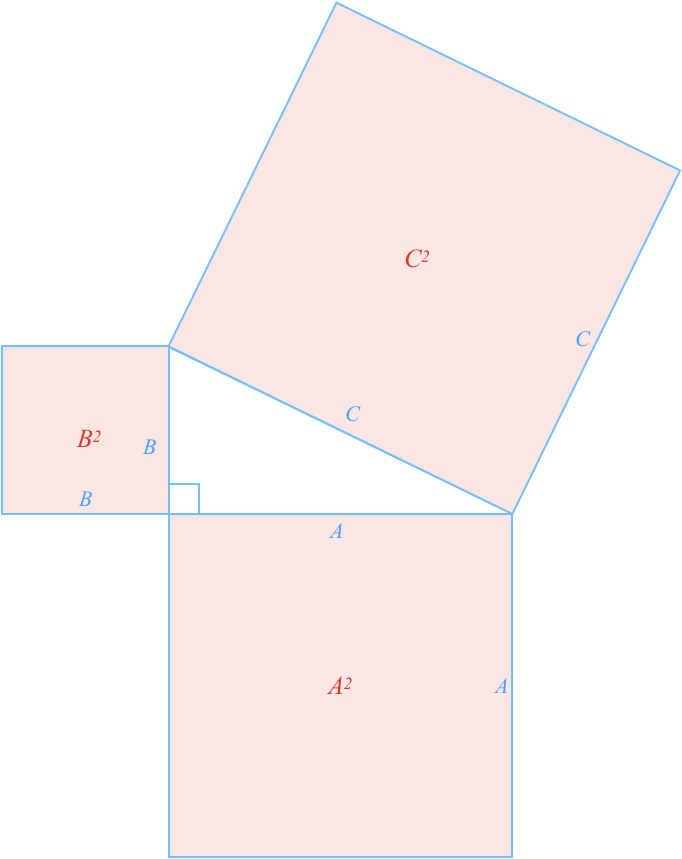
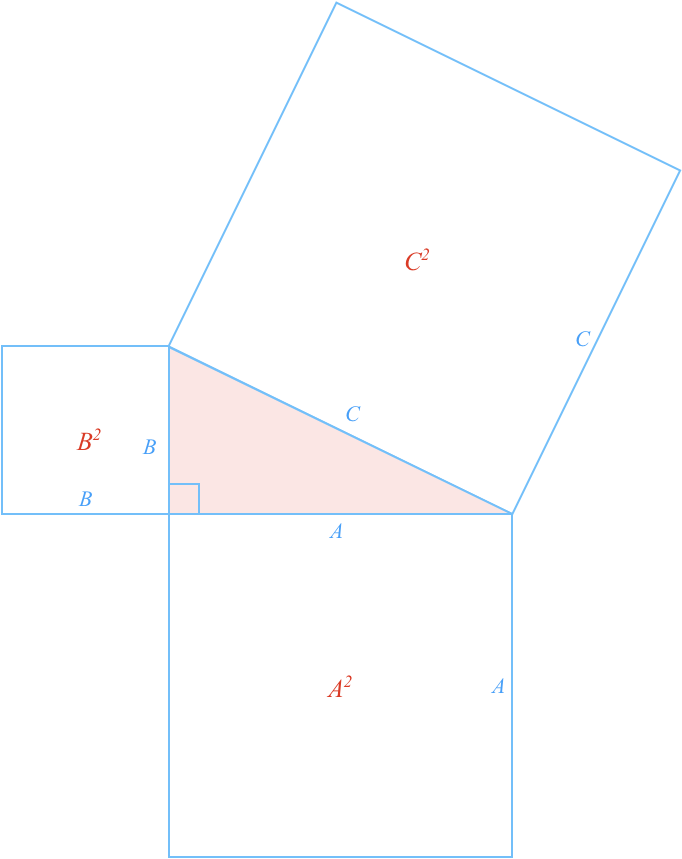
updates

diff --git a/src/Lessons/LessonsCommon/lessonindex.js b/src/Lessons/LessonsCommon/lessonindex.js
@@ -575,8 +575,8 @@ export default function getLessonIndex() {
       uid: 'right_angle_triangles',
       versions: {
         base: {
-          title: 'Base',
-          description: 'Explanation_of_version_here.',
+          title: 'Presentation',
+          description: 'Full explanation.',
           path: 'base',
           onPath: true,
           topics: [

diff --git a/src/Lessons/Math/Geometry_1/RightAngleTriangles/pythagorus_proof/version.js b/src/Lessons/Math/Geometry_1/RightAngleTriangles/pythagorus_proof/version.js
@@ -3,7 +3,7 @@
 // eslint-disable-next-line no-var
 var details = {
   title: 'Pythagorean Theorem',
-  description: 'Proof - static and simple.',
+  description: 'Single Page.',
   uid: 'pythagorus_proof',
   onPath: false,
 };

diff --git a/src/Lessons/Math/Geometry_1/RightAngleTriangles/base/version.js b/src/Lessons/Math/Geometry_1/RightAngleTriangles/base/version.js
@@ -2,8 +2,8 @@
 
 // eslint-disable-next-line no-var
 var details = {
-  title: 'Base',
-  description: 'Explanation_of_version_here.',
+  title: 'Airladon',
+  description: 'Presentation',
   uid: 'base',
   qr: [
     'Main',

diff --git a/src/Lessons/Math/Geometry_1/RightAngleTriangles/pythagorus_proof/explanation/content.md b/src/Lessons/Math/Geometry_1/RightAngleTriangles/pythagorus_proof/explanation/content.md
@@ -40,4 +40,4 @@ $$\color{lessonBlue} \bbox[20px,border:1px solid red]{A^2 + B^2 = C^2}$$
 
 And so for a right angle triangle the sum of the squares of the perpendicular sides is equal to the square of the hypotenuse. This can also be visulaized as squares made from the edges of the right angle triangle:
 
-![](./ThreeTriangles.png)
+![](./Squares.png)
